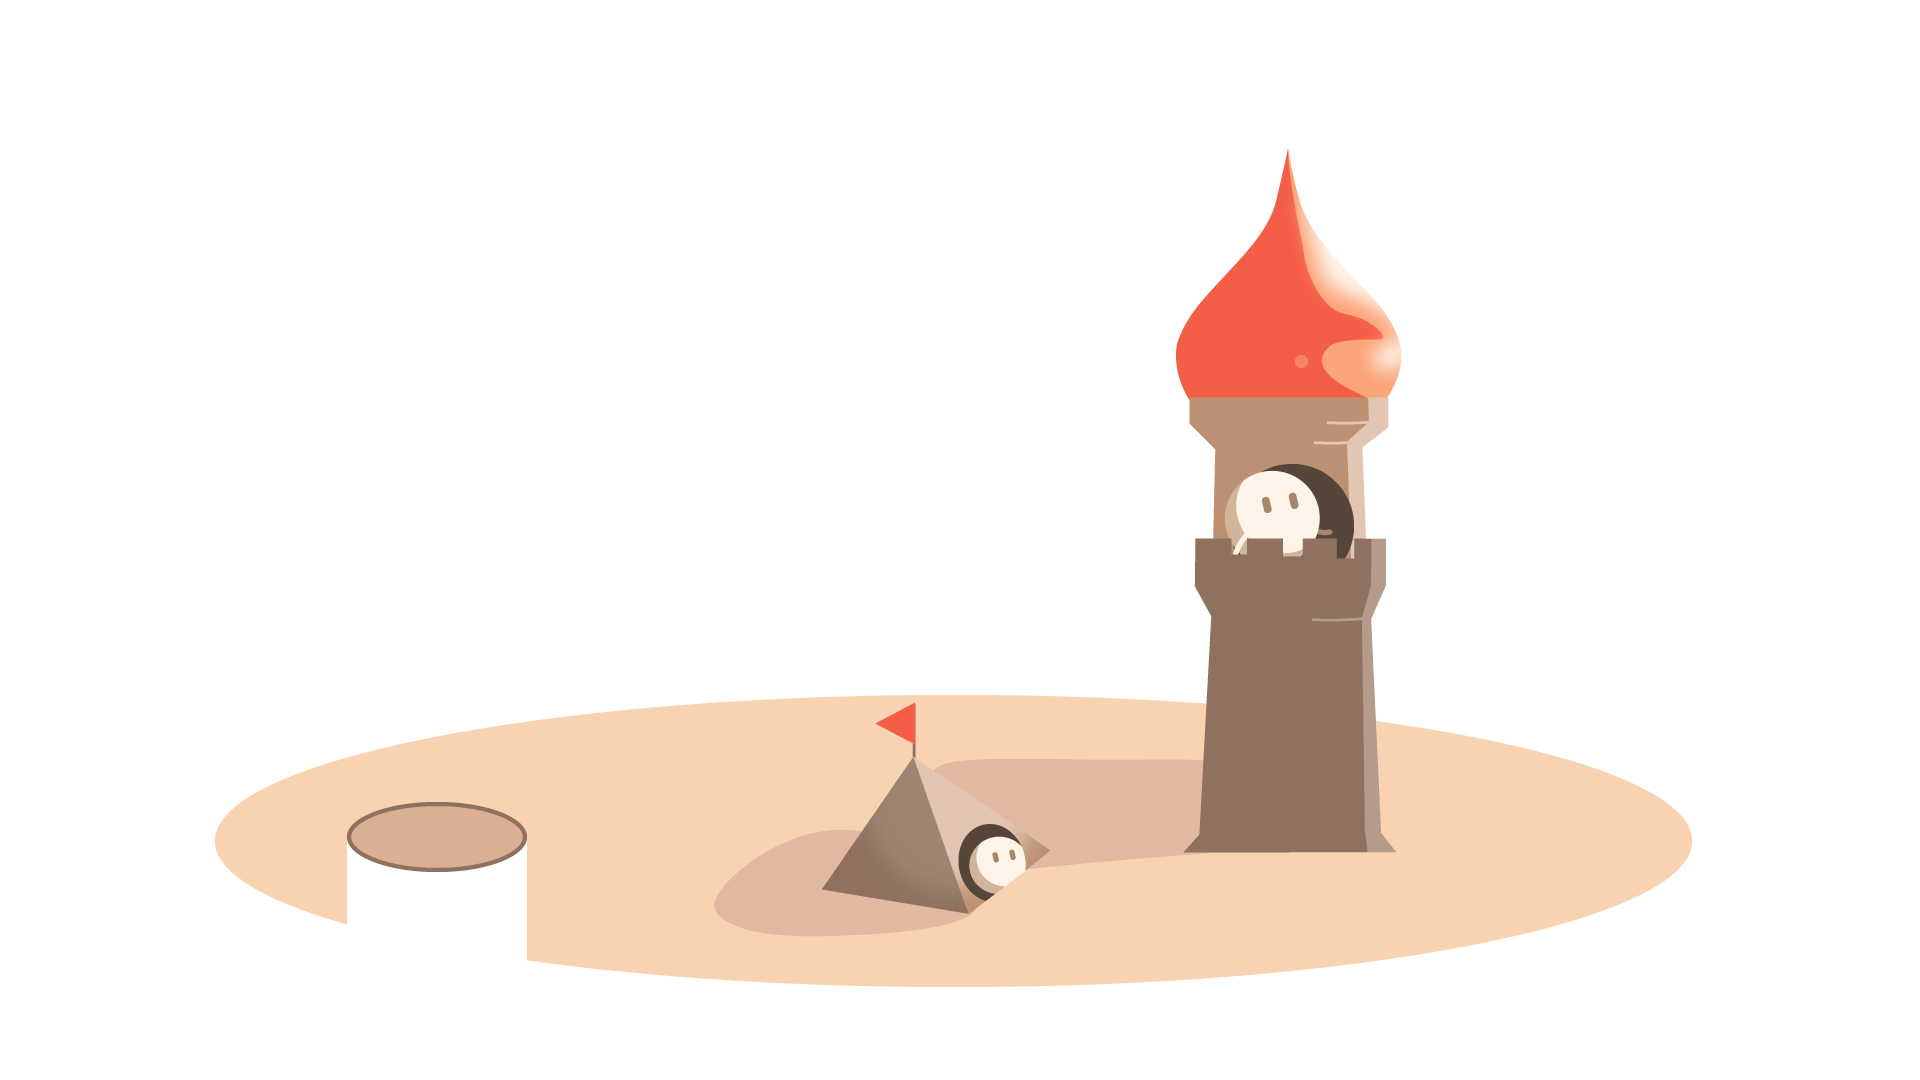
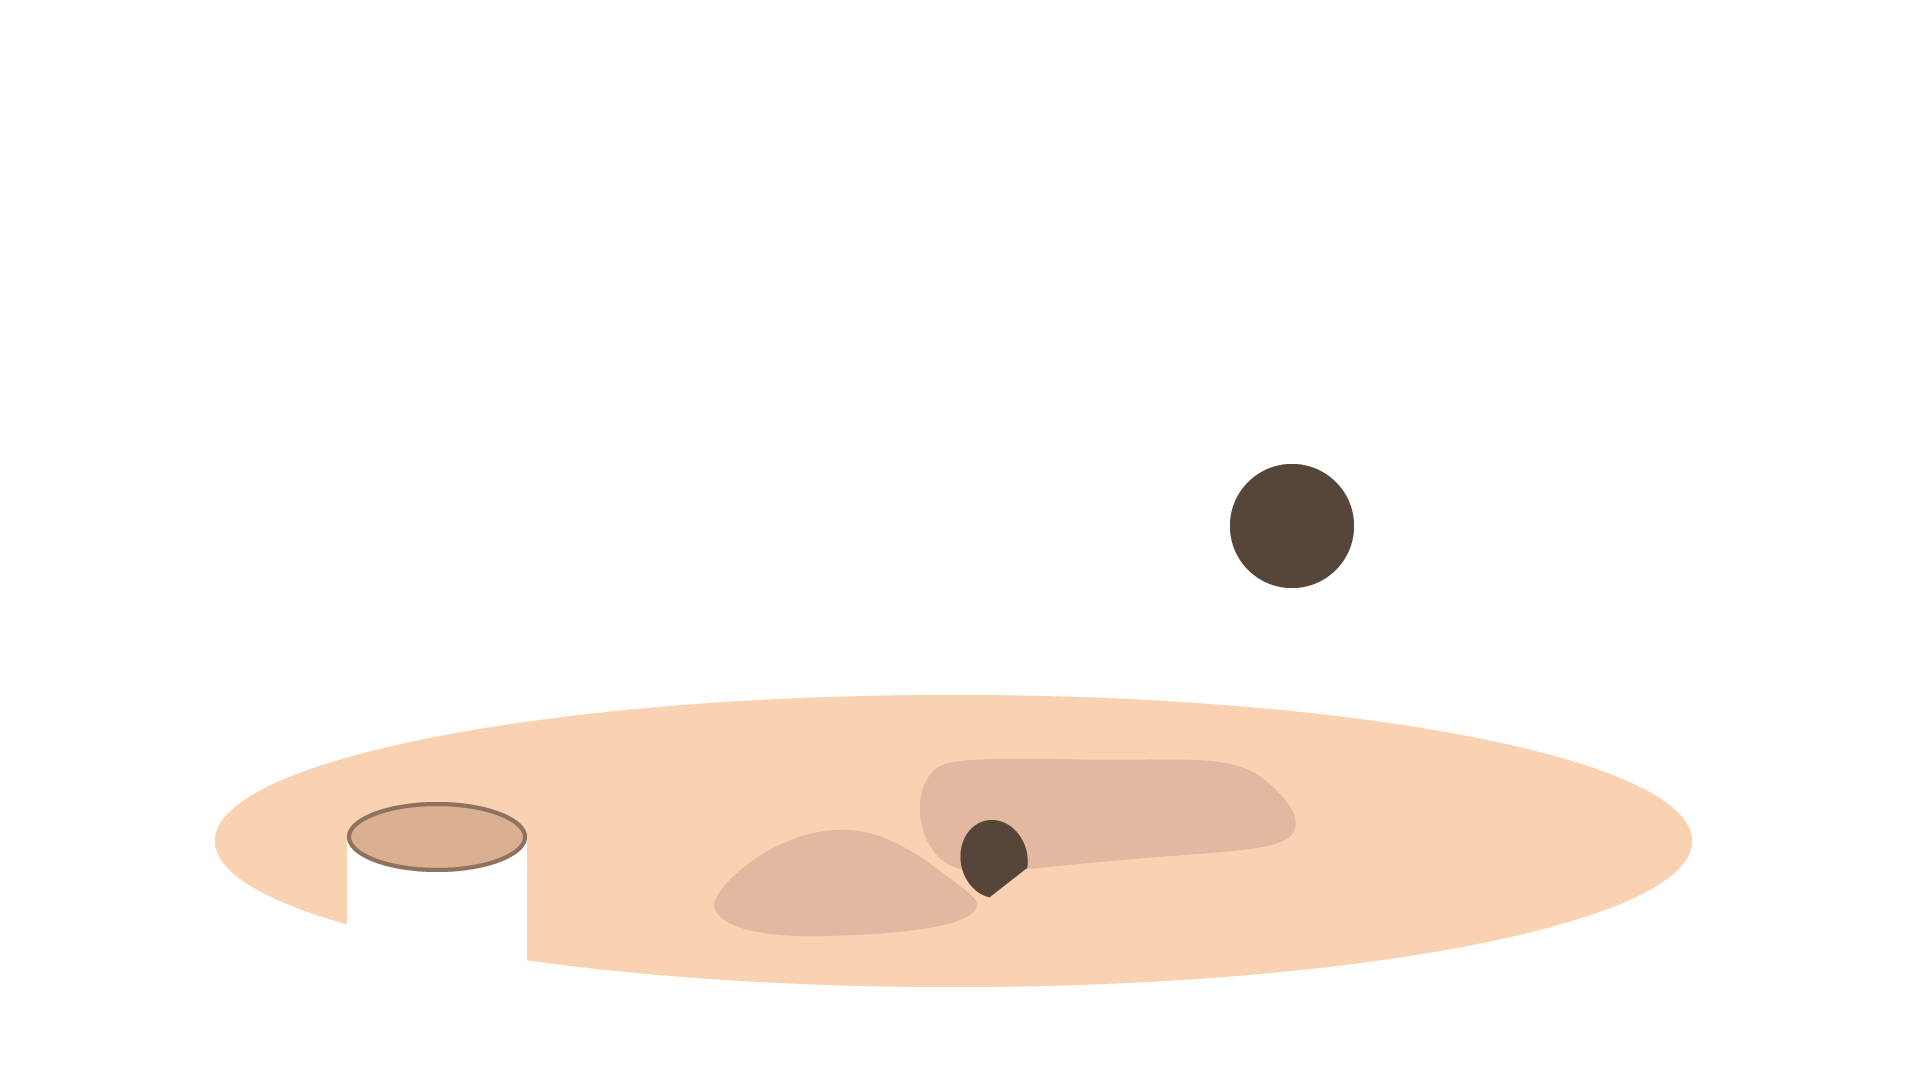
Home beofore making animation

Changed region(s): [[0.5938, 0.1528, 0.75, 0.7944], [0.4062, 0.6417, 0.5625, 0.8556]]

diff --git a/Home/css/Home_final_wide.css b/Home/css/Home_final_wide.css
@@ -169,6 +169,22 @@ body{
   height: 100%;
 }
 
+.home_background{/*各个页面的背景图*/
+  position: absolute;
+  width:100%;
+  height: 100vh;
+}
+
+
+.home_back_path{
+  position:absolute;
+}
+
+.home_move_icon{
+  position: absolute;
+}
+
+
 .home_info{/*各页面文字展示*/
   display: block;
   margin-top:5%;
@@ -226,100 +242,89 @@ body{
   background-color: black;
 }
 
-.home_first_path_1{
-  position: absolute;
-  top:-25%;
-  left:25%;
-  width: 5%;
-  height: 80%;
+#home_first_back_path_1{
+  bottom:10vh;
+  left:45%;
+  width: 30%;
+  height:22%;
+
+  min-width: 400px;
+  min-height: 80px;
 }
 
-.home_first_path_2{
-  position: absolute;
-  top:75%;
-  left:30%;
-  width:47%;
-  height:5%;
-}
+#home_first_move_icon{
+  top: 0px;
+/*  left: 90%;*/
+  height:100%;
+  width:25%;
 
-#home_first_move_icon_1{/*蝴蝶*/
-  position: absolute;
-  top:0;
-  left: 0px;
-  width:125%;
-  height:15%;
-  z-index: 50;
-
-  background-image:url("../image/home/btf2.gif");
+  background-image:url("../image/right_direction.gif");
   background-repeat: no-repeat;
   background-size: cover;
   background-position: center;
 }
 
-#home_first_move_icon_2{/*小球*/
-  position: absolute;
-  top:0px;
-  left: 0px;
-  width:15%;
-  height:220%;
-  z-index: 51;
-  min-width:40px;
-  min-height: 40px;
-
-  background-image:url("../image/home/roll.gif");
-  background-repeat: no-repeat;
-  background-size: cover;
-  background-position: center;
-}
-
-.home_first_pic_1{
-  position: absolute;
-  height:80%;
-  width: 80%;
-  bottom: 10%;
-  left: 10%;
-  z-index: 10;
-
-  background-image: url("../image/home/home1.png");
+#home_first_back{
+  background-image: url("../image/home1_back.png");
   background-position: center;
   background-size: cover;
   background-repeat: no-repeat;
 }
+
+#home_first_front{
+  background-image: url("../image/home1_front.png");
+  background-position: center;
+  background-size: cover;
+  background-repeat: no-repeat;
+}
+
+
 
 /*第二个图片页面*/
+/*****useless***/
 #home_page_2{
   background-color: black;
 }
 
-.home_second_pic_1{
-  position: absolute;
-  width: 80%;
-  height:90%;
-  top: 5%;
-  left: 10%;
-  z-index: 2;
+#home_second_back_path_1{
+  bottom:10vh;
+  left:33%;
+  width: 30%;
+  height:22%;
 
-  /*background-color: rgba(50,50,50,0.5);*/
-  background-image: url("../image/home/3.png");
-  background-position: bottom;
-  background-size: 100%;
-  background-repeat: no-repeat;
+  min-width: 400px;
+  min-height: 80px;
 }
 
-.home_second_pic_2{
-  position: absolute;
-  width:5%;
-  height:75%;
-  top: 5vh;
-  left: 74%;
-  min-width:70px;
-  z-index: 1;
+#home_second_move_icon{
+  top: 0px;
+  /*left: 100%;*/
+  height:100%;
+  width:25%;
 
-  background-image: url("../image/home/back1.png");
-  background-position: top;
+  background-image:url("../image/left_direction.gif");
+  background-repeat: no-repeat;
+  background-size: cover;
+  background-position: center;
+}
+
+#home_second_back{
+  background-image: url("../image/home2_back.png");
+  background-position: center;
   background-size: cover;
   background-repeat: no-repeat;
 }
+
+#home_second_front{
+  background-image: url("../image/home2_front.png");
+  background-position: center;
+  background-size: cover;
+  background-repeat: no-repeat;
+}
+
+
+
+
 
 
 #home_second_info p{
@@ -329,16 +334,16 @@ body{
 
 
 /*第三个图片页面*/
+/****useless****/
 .home_third_pic_1{
-  position: absolute;
-  width: 80%;
-  height:90%;
+  width:100%;
+  height:100vh;
   top: 5%;
   left: 10%;
   z-index: 1;
 
   /*background-color: rgba(50,50,50,0.5);*/
-  background-image: url("../image/home/5.png");
+  background-image: url("../image/home/home3.png");
   background-position: bottom;
   background-size: 100%;
   background-repeat: no-repeat;
@@ -357,31 +362,26 @@ body{
   background-size: cover;
   background-repeat: no-repeat;
 }
-
-/*第四个图片页面*/
-.home_fourth_pic_1{
-  position: absolute;
-  width: 80%;
-  height:90%;
-  top: 5%;
-  left: 10%;
-  z-index: 1;
-  /*background-color: rgba(50,50,50,0.5);*/
-  background-image: url("../image/home/7.png");
-  background-position: bottom;
-  background-size: 100%;
+/****useless****/
+#home_third_back{
+  background-image: url("../image/home3_back.png");
+  background-position: center;
+  background-size: cover;
   background-repeat: no-repeat;
 }
 
-.home_fourth_pic_2{
-  position: absolute;
-  width:5%;
-  height:80%;
-  top: -8vh;
-  left: 73%;
-  z-index: 2;
-  background-image: url("../image/home/back1.png");
-  background-position: top;
+#home_third_front{
+  background-image: url("../image/home3_front.png");
+  background-position: center;
+  background-size: cover;
+  background-repeat: no-repeat;
+}
+
+
+/*第四个图片页面*/
+#home_fourth_front{
+  background-image: url("../image/home4.png");
+  background-position: center;
   background-size: cover;
   background-repeat: no-repeat;
 }

diff --git a/Home/html/Home_final.html b/Home/html/Home_final.html
@@ -71,17 +71,16 @@
     <!--图片页面-->
     <div id="background_box">
         <!--第一个页面-->
-        <div class="container" id="home_page_1" style="background-color: gray;">
+        <div class="container" id="home_page_1" >
             <!--移动图层-->
             <div class="path_container">
-                <div class="home_first_pic_1">
-                    <div class="home_first_path_1">
-                        <div id="home_first_move_icon_1"></div>
-                    </div>
-                    <div class="home_first_path_2">
-                        <div id="home_first_move_icon_2"></div>
-                    </div>
+                <div class="home_background" id="home_first_back">
+                  <div class="home_back_path" id="home_first_back_path_1">
+                    <div class="home_move_icon" id="home_first_move_icon"></div>
+                  </div>
+                  <div class="home_back_path" id="home_first_back_path_2"></div>
                 </div>
+                <div class="home_background" id="home_first_front"></div>
             </div>
             <!-- 真正界面 -->
             <div class="row">
@@ -102,11 +101,12 @@
         <!--第二个页面-->
         <div class="container" id="home_page_2">
             <div class="path_container">
-                <div class="home_second_pic_1"></div>
-                <div class="home_second_pic_2">
-                  <div class="home_tube_ball" id="tube_ball_1"></div>
-                  <div class="home_front_tube"></div>
+                <div class="home_background" id="home_second_back">
+                  <div class="home_back_path" id="home_second_back_path_1">
+                    <div class="home_move_icon" id="home_second_move_icon"></div>
+                  </div>
                 </div>
+                <div class="home_background" id="home_second_front"></div>
             </div>
             <div class="row"><!-- 真正界面 -->
                 <div class="col-md-8  home_info" id="home_second_info">
@@ -126,11 +126,13 @@
         <!--第三个页面-->
         <div class="container" id="home_page_2">
             <div class="path_container">
-                <div class="home_third_pic_1"></div>
+               <!--  <div class="home_third_pic_1"></div>
                 <div class="home_third_pic_2">
                   <div class="home_tube_ball" id="tube_ball_2"></div>
                   <div class="home_front_tube"></div>
-                </div>
+                </div> -->
+                <div class="home_background" id="home_third_back"></div>
+                <div class="home_background" id="home_third_front"></div>
             </div>
             <div class="row"><!-- 真正界面 -->
                 <div class="col-md-4">
@@ -150,11 +152,12 @@
         <!--第四个页面-->
         <div class="container" id="home_page_2">
             <div class="path_container">
-                <div class="home_fourth_pic_2">
+                <!-- <div class="home_fourth_pic_2">
                   <div class="home_tube_ball" id="tube_ball_3"></div>
                   <div class="home_front_tube"></div>
                 </div>
-                <div class="home_fourth_pic_1"></div>
+                <div class="home_fourth_pic_1"></div> -->
+                <div class="home_background" id="home_fourth_front"></div>
             </div>
             <div class="row"><!-- 真正界面 -->
                 <div class="col-md-8 home_info" id="home_fourth_info">
